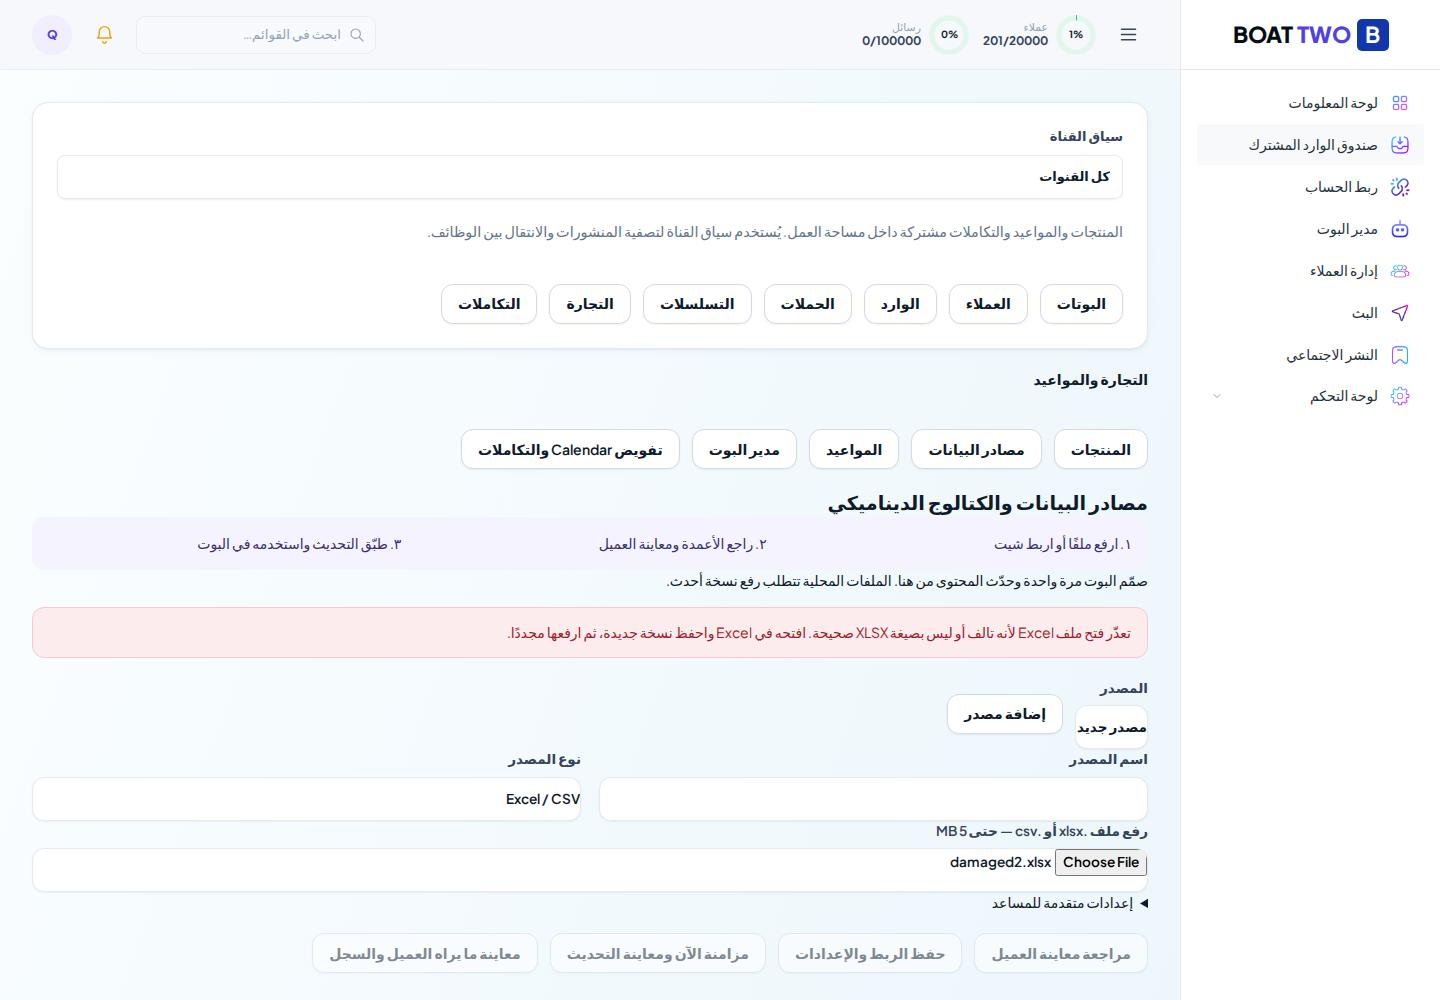
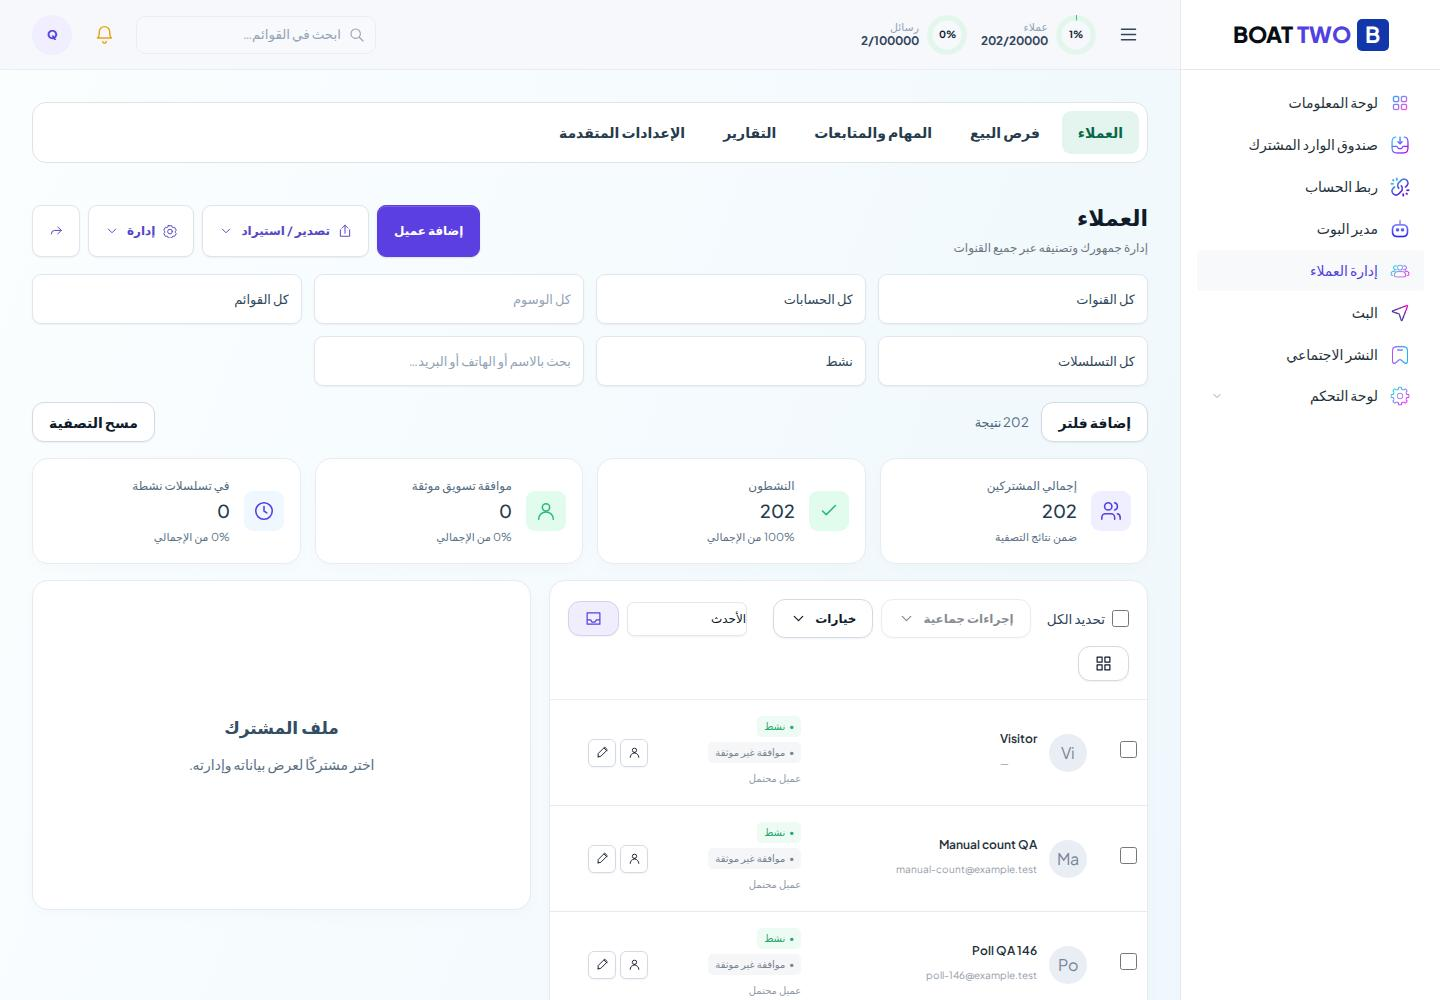
fix(crm): refresh usage on navigation after inbound contact creation

diff --git a/apps/web/app/dashboard/layout.tsx b/apps/web/app/dashboard/layout.tsx
@@ -187,6 +187,7 @@ function Shell({ children }: { children: ReactNode }) {
         if (active && current === revision) setUsage({});
       }
     };
+    void refreshUsage();
     window.addEventListener('boat:crm-changed', refreshUsage);
     window.addEventListener('boat:crm-imported', refreshUsage);
     return () => {
@@ -194,7 +195,7 @@ function Shell({ children }: { children: ReactNode }) {
       window.removeEventListener('boat:crm-changed', refreshUsage);
       window.removeEventListener('boat:crm-imported', refreshUsage);
     };
-  }, []);
+  }, [path]);
   async function logout() {
     const s = getSession();
     try {

diff --git a/docs/acceptance/2026-11-01-cloud-audit/CONTINUATION_AR.md b/docs/acceptance/2026-11-01-cloud-audit/CONTINUATION_AR.md
@@ -72,3 +72,13 @@
 قبل تحديث العامل: تكرار سؤال=>عقدتان؛Undo=>واحدة؛Redo=>عقدتان بعد انتهاء إعادة الرسم؛حذف النسخة=>واحدة. حفظ ونشر من المصمم وتأكد نشط على القناة، ثم رجوع وفتح المحرر: بداية السؤال والوصلتان والنص محفوظة. زووم ناقص/زائد وFitظهرت92%. صورة13 للنشر. لا اختبار لجميع أنواع العقد حتى الآن.
 
 شركة المراجعة الحاليةTravel0a687800 علىcd837: قناةQA Visitor Inbox، بوتQA Visitor name capture منشور، سؤالQA اكتب اسمك إلىname ثم رسالة ثمend. رابط الزائر من الواجهة /widget-demo.html?key=dc7d4dac56bfd3ff5b070dbd. سيُعاد تجهيزها بعد نشر العامل لأنDBمؤقتة. بيانات الحسابات والمفاتيح الحقيقية للمالك غير مستخدمة.
+
+## تحديث الاستخدام بعد inbound ومتابعة Inbox
+
+علىcd837 نجح وصولQA hello إلىInbox، وردQA staff reply01 وصل للويدجت. الحفظ استلم المحادثة وأسندها للمالك. ملاحظةQA PRIVATE NOTE01 محفوظة داخليًا؛ بعدreload للزائر انتظرنا ظهور الرد العام ثم تأكدنا صفر ظهور للملاحظة. متابعةQA follow-up after one hour حُفظت منInbox، وظهرت فيCustomer360 لنفس العميل. صور14–16.
+
+وجد امتدادG07/P3: العميل الجديد المنشأ برسالة الويدجت يظهر فيCRM، لكن عدّاد الترويسة ظل0 عند الانتقال منInbox إلىCRM. أضيف refreshUsage عند تغير مسار الصفحة، وليس عند كلrender. نجح Build/TypeScript وESLint للملفات المتأثرة.10 مجموعات Chromium محلية ناجحة، الأخيرة تفتح زائرًا في تبويب آخر ثم تنقر رابطCRM داخل التطبيق دونreload وتتأكد202/20000. قبول هذا الامتداد سحابيًا معلق حتى نشر الدفعة.
+
+خدمات المالك ما زالت Web15083082f125c1d42d1a6d17f11616c086d8fa4e/API803cc2945b3531e4ecd0fdec31b1b35d688565d6 وDeploymentاSUCCESS دون تغيير. APIhealth بتاريخ2026-11-01T13:04:47Z أعاد200/statusok/dbup. سجلRailway يحتوي استقبال/webhooks/whatsapp بحالة200 بتاريخ2026-10-31 حتى21:42Z؛ الاستعلام من2026-11-01T00:00Z أعاد صفر سجلات. هذا لا يثبت اتصالMetaحاليًا ولا ردWhatsAppحيًا. لم نغيرMetaأوWebhookأوWABAأوtokenأوالبوت النشط. لم نرسل رسائل حقيقية. GoogleSheetsOAuthوالمزامنة الحية غير مختبرين.
+
+التسجيل والدخول بالنموذج اليدوي غير مختبرين: إرشادbrowserAuth يمنع إدخال كلمات المرور عبر أدوات مرئية ويطلب تسليم التسجيل للمستخدم. لم نطلب بيانات مالك ولم نعتبر مساعد تجهيز الشركات اختبارًا يدويًا للنموذج. تابعنا بقية الاختبارات داخل حسابات اصطناعية منفصلة.

diff --git a/docs/acceptance/2026-11-01-cloud-audit/VALIDATION.md b/docs/acceptance/2026-11-01-cloud-audit/VALIDATION.md
@@ -32,3 +32,5 @@ Cloud Browser executed fresh synthetic tenant bootstrap via the review helper, v
 اقرأ CONTINUATION_AR.md لنتائج المتابعة المحدثة. أُعيد قبول4/6 إصلاحات سحابيًا؛ إصلاحا الاستيراد وExcel محجوبان بأداة رفع الملفات، ونجحا محليًا. أُصلح G07/P3 لعدّاد العملاء ونجحت7 مجموعات محلية؛ القبول السحابي لهذا الإصلاح معلق حتى نشر دفعة المراجعة. أضيفت7 صور متصفح فعلية ونتيجة lint المقارنة (صفر أخطاء جديدة على الملفات المتأثرة). لا اعتماد نشر نسخة المالك أو جاهزية البيع.
 
 G07: قبول سحابي بعد النشر4444aa1 ناجح لإنشاء عميل إنجليزي بالمكتب وآخر عربي بالموبايل، دون إعادة تحميل. أضيفت صور08–12 للسحب وTablet والعداد والسؤال. تحديث تجهيز المراجعة للويدجت محليًا8 مجموعات ناجحة؛ يحتاج نشر خدمة المراجعة فقط، لا خدمات المالك.
+
+متابعة محفوظة:10 مجموعات محلية ناجحة، وBuild/TypeScript ناجح، ومقارنة lintالكاملة173خطأ/1تحذير قديم في الأصل والحالي بلا إضافات. اختُبرت محادثةWebchatوInboxورد الموظف وعزل الملاحظة الداخلية وإنشاء متابعة مرتبطة بCRM بالمتصفح. إضافة تحديث العدّاد عند التنقل بعدinbound تنتظر قبولًا سحابيًا بعد نشر المراجعة. خدمات المالك لم تُستبدل، ولا اختبارWhatsAppحي أوGoogleOAuth.
